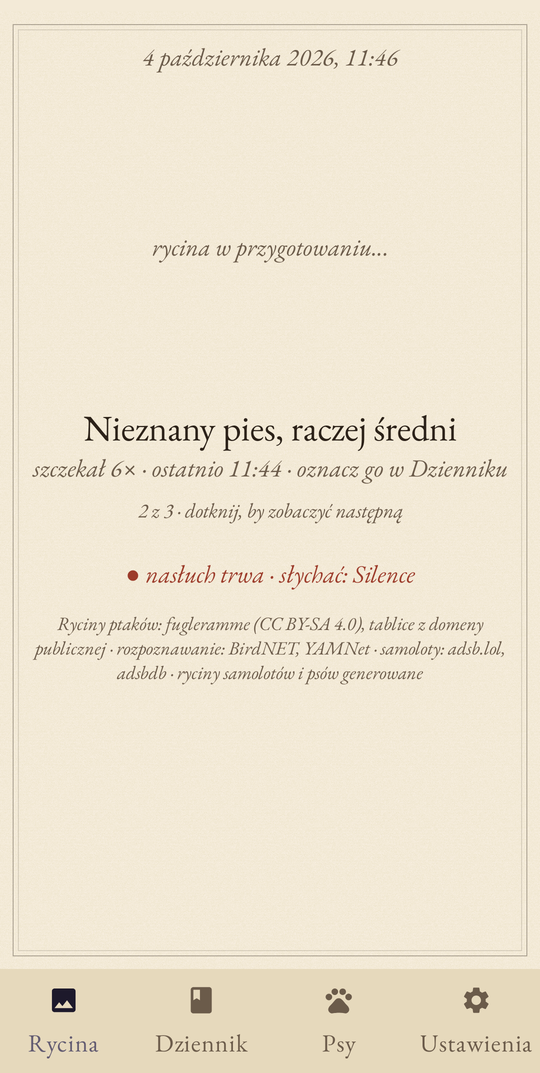
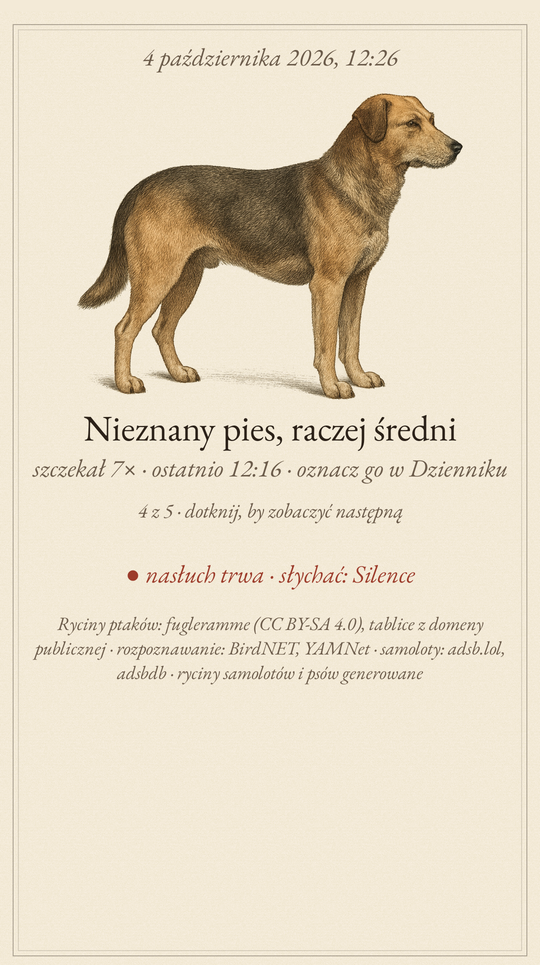
0.3.1: kosiarka z daleka, psy w Dzienniku, zrzuty i galeria rycin w README

diff --git a/android/app/src/main/java/pl/wojczal/ryciny/ui/Dogs.kt b/android/app/src/main/java/pl/wojczal/ryciny/ui/Dogs.kt
@@ -26,24 +26,21 @@ import pl.wojczal.ryciny.art.ArtRequest
 import pl.wojczal.ryciny.art.Kind
 import pl.wojczal.ryciny.data.Dog
 
-/** The neighbourhood's dogs as the app knows them. */
+/** The neighbourhood's named dogs, shown above the barks when the journal is filtered to dogs. */
 @Composable
-fun DogsScreen(g: Graph) {
+fun KnownDogs(g: Graph) {
     val journal by g.store.flow.collectAsState()
     var editing by remember { mutableStateOf<Dog?>(null) }
-    Column(Modifier.fillMaxSize().paper().padding(horizontal = 20.dp, vertical = 16.dp)) {
-        Caption("Psy z sąsiedztwa", size = 24, italic = false, modifier = Modifier.fillMaxWidth())
-        Caption(
-            "Szczekanie wykrywa YAMNet. Rasy nie da się odczytać z samego dźwięku, więc każdego psa oznaczasz raz " +
-                "w Dzienniku („Kto to?”). Od tej pory jego szczekanie jest porównywane z zapamiętanymi próbkami " +
-                "— im więcej oznaczeń, tym pewniej. Nieoznaczone psy dostają tylko szacunek wielkości z wysokości głosu.",
-            size = 14, color = InkSoft,
-        )
+    Column(Modifier.fillMaxWidth().padding(top = 8.dp)) {
         if (journal.dogs.isEmpty()) {
-            Caption("Jeszcze żadnego. Poczekaj, aż któryś zaszczeka, i oznacz go w Dzienniku.", color = InkSoft, modifier = Modifier.padding(top = 24.dp))
+            Caption(
+                "Rasy nie da się odczytać z samego szczekania. Przy szczekaniu poniżej naciśnij „Kto to?” i podaj " +
+                    "imię i rasę psa: od tej pory aplikacja rozpozna go sama.",
+                size = 14, color = InkSoft,
+            )
         }
-        LazyColumn {
-            items(journal.dogs) { dog ->
+        Column {
+            journal.dogs.forEach { dog ->
                 val barks = journal.barks.filter { it.dogId == dog.id }
                 Row(Modifier.fillMaxWidth().padding(vertical = 8.dp), verticalAlignment = Alignment.CenterVertically) {
                     Engraving(ArtRequest(Kind.DOG, dog.breed, dog.breedEn), height = 80.dp, placeholder = "…")
@@ -56,6 +53,7 @@ fun DogsScreen(g: Graph) {
                 HorizontalDivider(color = InkSoft.copy(alpha = 0.2f))
             }
         }
+        if (journal.dogs.isNotEmpty()) Caption("Szczekania", size = 16, italic = false, color = Rubric, modifier = Modifier.padding(top = 10.dp))
     }
     editing?.let { dog ->
         var name by remember(dog.id) { mutableStateOf(dog.name) }

diff --git a/android/app/src/main/java/pl/wojczal/ryciny/MainActivity.kt b/android/app/src/main/java/pl/wojczal/ryciny/MainActivity.kt
@@ -12,7 +12,6 @@ import androidx.compose.foundation.layout.padding
 import androidx.compose.material.icons.Icons
 import androidx.compose.material.icons.filled.Book
 import androidx.compose.material.icons.filled.Image
-import androidx.compose.material.icons.filled.Pets
 import androidx.compose.material.icons.filled.Settings
 import androidx.compose.material3.Icon
 import androidx.compose.material3.NavigationBar
@@ -30,7 +29,6 @@ import androidx.lifecycle.lifecycleScope
 import kotlinx.coroutines.launch
 import pl.wojczal.ryciny.audio.ListenService
 import pl.wojczal.ryciny.planes.AircraftTypes
-import pl.wojczal.ryciny.ui.DogsScreen
 import pl.wojczal.ryciny.ui.JournalScreen
 import pl.wojczal.ryciny.ui.PaperDark
 import pl.wojczal.ryciny.ui.PlateScreen
@@ -70,8 +68,7 @@ class MainActivity : ComponentActivity() {
                             listOf(
                                 Triple("Rycina", Icons.Default.Image, 0),
                                 Triple("Dziennik", Icons.Default.Book, 1),
-                                Triple("Psy", Icons.Default.Pets, 2),
-                                Triple("Ustawienia", Icons.Default.Settings, 3),
+                                Triple("Ustawienia", Icons.Default.Settings, 2),
                             ).forEach { (label, icon, i) ->
                                 NavigationBarItem(selected = tab == i, onClick = { tab = i }, icon = { Icon(icon, label) }, label = { Text(label) })
                             }
@@ -82,7 +79,6 @@ class MainActivity : ComponentActivity() {
                         when (tab) {
                             0 -> PlateScreen(g)
                             1 -> JournalScreen(g)
-                            2 -> DogsScreen(g)
                             else -> SettingsScreen(g)
                         }
                     }

diff --git a/android/app/src/main/java/pl/wojczal/ryciny/ui/Journal.kt b/android/app/src/main/java/pl/wojczal/ryciny/ui/Journal.kt
@@ -74,6 +74,7 @@ fun JournalScreen(g: Graph) {
             }
         }
         LazyColumn(Modifier.fillMaxSize()) {
+            if (filter == "dogs") item { KnownDogs(g) }
             items(entries) { e ->
                 when (e) {
                     is SoundEntry -> Line(hhmm(e.at), e.title, "${hhmm(e.from)}–${hhmm(e.at)}")

diff --git a/README.md b/README.md
@@ -21,18 +21,36 @@ Etap 1 to aplikacja na Androida do testów. Etap 2 to Raspberry Pi z kolorowym e
 
 ## Jak to wygląda
 
-| Ptak | Samolot | Pies |
-| :---: | :---: | :---: |
-| ![Kos z tablicy Goulda](docs/screenshots/ptak.png) | ![Samolot nad domem](docs/screenshots/samolot.png) | ![Nieznany pies](docs/screenshots/pies.png) |
-| Kos rozpoznany po śpiewie, tablica z fugleramme | Embraer Praetor 600 nad Gdańskiem: linia, rejestracja, wysokość, kierunek | Szczekający pies, wielkość zgadnięta z wysokości głosu |
+Wszystko poniżej to zrzuty z Pixela 9 w Gdańsku, zrobione 4 października 2026. Ryciny samolotów, psa
+i dźwięków wygenerował `gpt-image-1`, a ptaka narysował John Gould w XIX wieku.
 
-| Dziennik | Psy | Ustawienia |
+| Ptak | Samolot nad domem | Pies |
 | :---: | :---: | :---: |
-| ![Dziennik](docs/screenshots/dziennik.png) | ![Psy z sąsiedztwa](docs/screenshots/psy.png) | ![Ustawienia](docs/screenshots/ustawienia.png) |
-| Wszystko, co przeleciało, zaśpiewało i zaszczekało. Szczekanie można odsłuchać i oznaczyć („Kto to?”) | Psy oznaczone przez ciebie, z liczbą próbek | Klucz do generowania rycin, miejsce, progi |
+| ![Kos z tablicy Goulda](docs/screenshots/ptak.png) | ![Cessna 208 Caravan podchodząca do lądowania](docs/screenshots/samolot.png) | ![Nieznany pies](docs/screenshots/pies.png) |
+| Kos rozpoznany po śpiewie, tablica z fugleramme | Cessna 208 Caravan 2,2 km od domu, 30 m nad ziemią, zniża lot do GDN | Szczekający pies, wielkość zgadnięta z wysokości głosu |
 
-Zrzuty pochodzą z pierwszego uruchomienia na Pixelu 9, jeszcze bez klucza do generowania obrazów, dlatego
-samolot i pies mają napis „rycina w przygotowaniu…” zamiast ryciny. Ptaki mają gotowe tablice i nie potrzebują klucza.
+| Sąsiad kosi trawę | Dzwony | Muzyka u sąsiadów |
+| :---: | :---: | :---: |
+| ![Kosiarka](docs/screenshots/kosiarka.png) | ![Dzwon](docs/screenshots/dzwony.png) | ![Gramofon](docs/screenshots/muzyka.png) |
+| Koszenie trawy jako tablica z XIX-wiecznego poradnika ogrodniczego | Dzwony kościelne | Muzyka zza płotu |
+
+| Dziennik | Rycina samolotu z Dziennika | Psy w Dzienniku | Ustawienia |
+| :---: | :---: | :---: | :---: |
+| ![Dziennik](docs/screenshots/dziennik.png) | ![Embraer E175 LOT](docs/screenshots/samolot-z-dziennika.png) | ![Psy](docs/screenshots/dziennik-psy.png) | ![Ustawienia](docs/screenshots/ustawienia.png) |
+| Samoloty z trasami (Finnair GDN → HEL, Wizz Air GDN → TGD), koszenie, dzwony | „Rycina” przy samolocie: Embraer E175 LOT Gdańsk → Warszawa | Filtr „psy”: znane psy, szczekania do odsłuchania i oznaczenia („Kto to?”) | Klucz do rycin, licznik rycin w pamięci, miejsce |
+
+### Galeria rycin
+
+Same ryciny, tak jak zapisuje je aplikacja: wygenerowane raz, wycięte z tła i trzymane w telefonie.
+
+| | | |
+| :---: | :---: | :---: |
+| ![Embraer E175 w barwach LOT](docs/ryciny/embraer-e175-lot.png) | ![Cessna 208 Caravan](docs/ryciny/cessna-208.png) | ![Kos, John Gould](docs/ryciny/kos.png) |
+| Embraer E175, LOT | Cessna 208 Caravan | Kos (Gould, *Birds of Europe*) |
+| ![Kundel średni](docs/ryciny/pies.png) | ![Sąsiad z kosiarką](docs/ryciny/kosiarka.png) | ![Dzwon kościelny](docs/ryciny/dzwon.png) |
+| Kundel średniej wielkości | Sąsiad kosi trawę | Dzwony kościelne |
+| ![Gramofon](docs/ryciny/gramofon.png) | | |
+| Muzyka u sąsiadów | | |
 
 ## Instalacja na telefonie
 
@@ -113,7 +131,7 @@ android/app/src/main/java/pl/wojczal/ryciny/
   planes/               adsb.lol + adsbdb
   art/                  tablice fugleramme, generowanie (OpenAI/Gemini), wycinanie z tła
   data/                 dziennik (JSON), psy, ustawienia, eksport dla Pi
-  ui/                   rycina, dziennik, psy, ustawienia
+  ui/                   rycina, dziennik (z psami), ustawienia
 ```
 
 ## Etap 2: Raspberry Pi + kolorowy e-ink

diff --git a/CHANGELOG.md b/CHANGELOG.md
@@ -3,6 +3,11 @@
 Numeracja: `MAJOR.MINOR.PATCH` (semver). Wersja jest w `android/gradle.properties` (`ryciny.version`),
 tag w gicie to `vX.Y.Z`, a każdy tag ma release z plikiem APK.
 
+## 0.3.1 - 2026-10-04
+
+- Dolne menu ma trzy zakładki: lista znanych psów przeszła do Dziennika (filtr „psy”), nad szczekania.
+- Kosiarka łapie się z większej odległości: próg z 0,3 na 0,15 (piła łańcuchowa z 0,35 na 0,25). Kosiarka sąsiada przy progu 0,3 nie została zapisana.
+
 ## 0.3.0 - 2026-10-04
 
 - 31 dźwięków okolicy, każdy z własną ryciną: kosiarka, piła łańcuchowa, majsterkowanie, burza, deszcz, wiatr, statek i syrena mgłowa, dzwony kościelne, pociąg, motocykl, helikopter, karetka, policja, straż pożarna, syrena alarmowa, fajerwerki, alarm samochodowy, kot, kogut, koń, krowa, owca, koza, świnia, żaby, świerszcze, pszczoły i osy, komar, muzyka u sąsiadów, dzwonek do drzwi, lodziarz.
